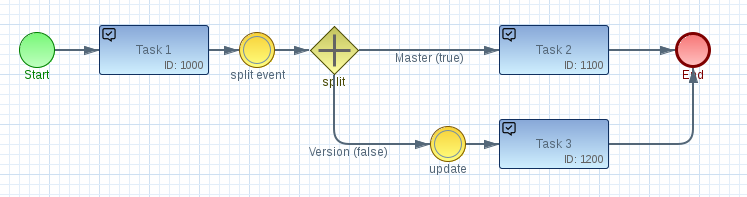
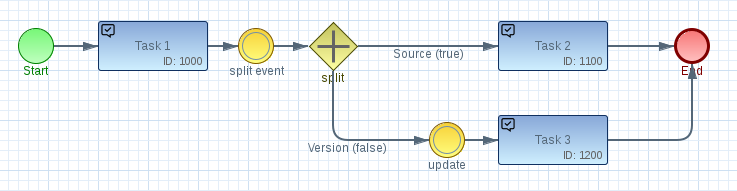
remove $workitemIDRef and replace this attribute with $UNIQUEIDSOURCE
issue #302

Changed region(s): [[0.0, 0.0, 1.0, 1.0], [0.7178, 0.7068, 0.7802, 0.7592]]

diff --git a/imixs-workflow-core/src/main/java/org/imixs/workflow/WorkflowKernel.java b/imixs-workflow-core/src/main/java/org/imixs/workflow/WorkflowKernel.java
@@ -68,6 +68,7 @@ public class WorkflowKernel {
 	public static final String ISO8601_FORMAT = "yyyy-MM-dd'T'HH:mm:ss.SSS";
 
 	public static final String UNIQUEID = "$uniqueid";
+	public static final String UNIQUEIDSOURCE = "$uniqueidsource";
 	public static final String UNIQUEIDVERSIONS = "$uniqueidversions";
 	public static final String MODELVERSION = "$modelversion";
 	public static final String PROCESSID = "$processid";
@@ -75,7 +76,6 @@ public class WorkflowKernel {
 	public static final String ACTIVITYIDLIST = "$activityidlist";
 	public static final String WORKFLOWGROUP = "$workflowgroup";
 	public static final String WORKFLOWSTATUS = "$workflowstatus";
-	public static final String WORKITEMIDREF = "$WorkItemIDRef";
 
 	public static final String TYPE = "type";
 
@@ -724,7 +724,7 @@ public class WorkflowKernel {
 		itemColNewVersion.replaceItemValue(UNIQUEID, WorkflowKernel.generateUniqueID());
 
 		// update $WorkItemIDRef to current worktiemID
-		itemColNewVersion.replaceItemValue(WORKITEMIDREF, id);
+		itemColNewVersion.replaceItemValue(UNIQUEIDSOURCE, id);
 
 		// remove $UniqueIDVersions
 		itemColNewVersion.removeItem(UNIQUEIDVERSIONS);

diff --git a/imixs-workflow-core/src/test/java/org/imixs/workflow/TestWorkflowKernelModels.java b/imixs-workflow-core/src/test/java/org/imixs/workflow/TestWorkflowKernelModels.java
@@ -274,6 +274,14 @@ public class TestWorkflowKernelModels {
 
 			// Master $unqiueid must not match the version $uniqueid
 			Assert.assertFalse(itemCollection.getUniqueID().equals(version.getUniqueID()));
+			
+			
+			// $uniqueidSource must match $unqiueid of master
+			Assert.assertEquals(itemCollection.getUniqueID(),version.getItemValueString(WorkflowKernel.UNIQUEIDSOURCE));
+			
+			// $unqiueidVirsions must mach $unqiueid of version
+			Assert.assertEquals(version.getUniqueID(),itemCollection.getItemValueString(WorkflowKernel.UNIQUEIDVERSIONS));
+			
 
 		} catch (Exception e) {
 			Assert.fail();

diff --git a/src/site/markdown/quickstart/workitem.md b/src/site/markdown/quickstart/workitem.md
@@ -47,8 +47,8 @@ The following table provides an overview about the data of a process instance ma
 |$ModelVersion    |String  |yes   | The Version of the model the workitem belongs to  |
 |$ProcessID       |Integer |yes   | The current ProcessID of the workItem         |
 |$ActivityID      |Integer |yes   | The next activity to be processed by the workflow engine    |
-|$workflowGroup   |String  |no    |The name of the current process group          |
-|$workflowStatus  |String  |no    |The name of the current workflow status            |
+|$workflowGroup   |String  |no    | The name of the current process group          |
+|$workflowStatus  |String  |no    | The name of the current workflow status            |
 |$Created         |Date    |no    | Date of creation                              |
 |$Modified        |Date    |no    | Date of last modification                     |
 |$IsAuthor        |Boolean |no    | Indicates if the current user has write access|
@@ -56,14 +56,16 @@ The following table provides an overview about the data of a process instance ma
 |$WriteAccess     |List    |no    | String list of User/Roles with write access   |
 |$uniqueId        |String  |no    | The unique ID of this workItem                |
 |$uniqueIdRef     |String  |yes   | A reference to a connected workItem (child process) |
-|$workitemid      |String  |no    | The process instance id of this workitem      |
-|$lastEvent       |Integer |no    |The last processed event ID           |
-|$lastTask        |Integer |no    |The last assigned Task ID (processid)          |
-|$lastProcessingDate |Date|no     |The timestamp of the last processing action    |
-|$creator         |String  |no    |The user who created the workItem.             |
-|$editor          |String  |no    |The user who invoked the processWorkitem() method.       |
-|$lasteditor      |String  |no    |The last user, that invoked the process method before the $editor |
-|namOwner         |List    |no    |String list of User/Roles, that are owners of that WorkItem. |
+|$workitemid      |String  |no    | A unique process instance id of a workitem ad all its versions      |
+|$unqiueIDSource  |String  |no    | The UnqiueID of the Source workitem for a version (See [Workflow Kernel split-events](../core/workflowkernel.html))     |
+|$unqiueIDVersions|String  |no    | A list of UnqiueIDs to all created versions of this workitem  (See [Workflow Kernel split-events](../core/workflowkernel.html))|
+|$lastEvent       |Integer |no    | The last processed event ID           |
+|$lastTask        |Integer |no    | The last assigned Task ID (processid)          |
+|$lastProcessingDate |Date|no     | The timestamp of the last processing action    |
+|$creator         |String  |no    | The user who created the workItem.             |
+|$editor          |String  |no    | The user who invoked the processWorkitem() method.       |
+|$lasteditor      |String  |no    | The last user, that invoked the process method before the $editor |
+|namOwner         |List    |no    | String list of User/Roles, that are owners of that WorkItem. |
 |txtworkflowsummary |String|no |A short description of the current status      |
 |txtworkflowabstract|String|no |A long description of the current status       |
 |txtworkflowimageurl|String|no |A link to an image which displays the current status |

diff --git a/src/site/markdown/core/workflowkernel.md b/src/site/markdown/core/workflowkernel.md
@@ -42,23 +42,22 @@ See the section ['How to model'](../modelling/howto.html) for further details ab
 
 ### Split Events
 
-In Imixs-Workflow a BPMN _Event_ followed by a _Parallel Gateway_ is called a _split-event_ and used to create new versions of the current process instance during the processing phase.
+In Imixs-Workflow a BPMN _Event_ followed by a _Parallel Gateway_ is called a _split-event_ and used to create a new version of the current process instance during the processing phase.
 
 <img src="../images/modelling/example_11.png"/>
 
-The WorkflowKernel returns new versions of the current process instance by the method _getSplitWorkitems()_ and stores the IDs of these versions into the attribute '$uniqueidVersions'. A process instance and all its versions will have the same $workitemID. A version holds a reference to the source workitem in the attribute '$workitemidRef'.
+The current process instance is called the _Source Workitem_. The _Source Workitem_ and all versions have the same _'$workitemID'_. In addition, the  _'$UniqueID'_ of a new version is stored into the attribute _'$uniqueidVersions'_ of the current process instance. A version holds a reference to the _Source Workitem_ in the attribute '$workitemidRef'.
 
-|Attribute      	| Source | Version | Description 				 						|
-|-------------------|:------:|:-------:|----------------------------------------------------|
-|$workitemID    	| x      | x       |A shared key across all versions and the source workitem.					|
-|$workitemIDRef		|        | x       |A reference to the UnqiueID of the Source workitem	|  	 	
-|$unqiueIDVersions	| x      |         |A list of UnqiueIDs to all created versions 		|
+|Attribute      	| Source | Version | Description 				 										|
+|-------------------|:------:|:-------:|--------------------------------------------------------------------|
+|$workitemID    	| x      | x       |A unique shared key across all versions and the source workitem.	|
+|$unqiueIDSource	|        | x       |A reference to the $UnqiueID of the Source workitem.				|  	 	
+|$unqiueIDVersions	| x      |         |A list of $UnqiueIDs to all created versions of a source workitem.	|
 
 
-**Note:** The _WorklfowKernel_ expects that each outcome of a _Parallel Gateway_ creating a new version is followed by an Event element. If not, a _ModelException_ is thrown. 
+During the processing life-cyle, the _WorkflowKernel_ returns new versions of the current process instance by the method _getSplitWorkitems()_ 
 
-See the section ['How to model'](../modelling/howto.html) for details about modeling Split Events.  
-
+**Note:** The _WorklfowKernel_ expects that each outcome of a _Parallel Gateway_ creating a new version is followed by an Event element. If not, a _ModelException_ is thrown. See the section ['How to model'](../modelling/howto.html) for details about modeling Split Events.  
 
 
 
